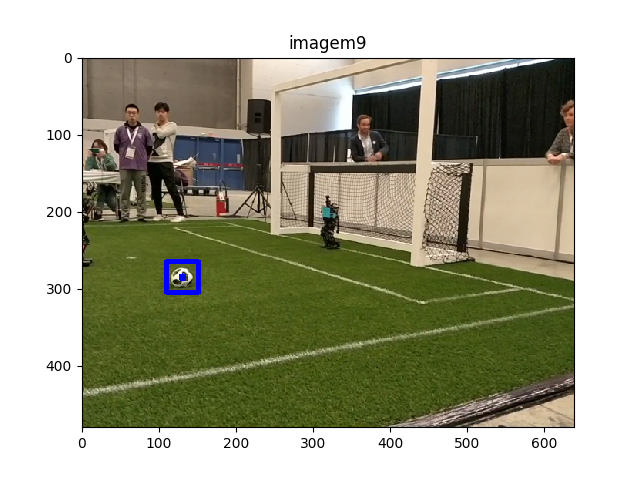
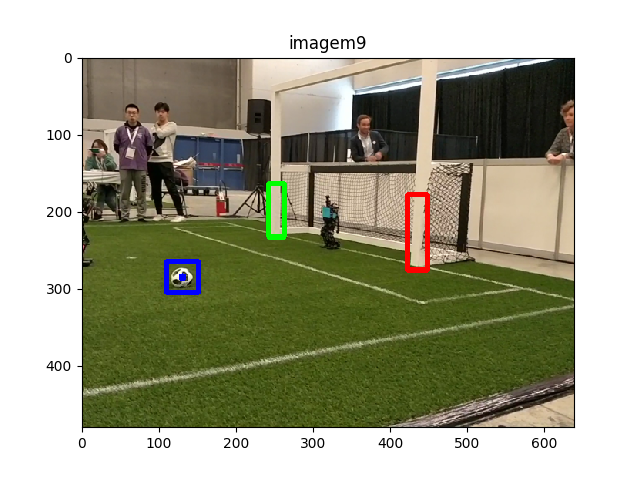
Made ball and crossbar detection work

Changed region(s): [[0.625, 0.375, 0.6875, 0.5938], [0.4062, 0.375, 0.4688, 0.5]]

diff --git a/computer_vision_with_rnc/code/yolo_detector.py b/computer_vision_with_rnc/code/yolo_detector.py
@@ -73,45 +73,36 @@ class YoloDetector:
 
         output = np.reshape(output, (15, 20, 10))  # reshaping to remove the first dimension
 
-        max_ball_prob = 0
+        def get_crossbar_params(row_idx, elm_idx, elm):
+            x_cross = (elm_idx + sigmoid(elm[6])) * coord_scale
+            y_cross = (row_idx + sigmoid(elm[7])) * coord_scale
+            w_cross = bb_scale * 2 * np.exp(elm[8])
+            h_cross = bb_scale * 5 * np.exp(elm[9])
+            return x_cross, y_cross, w_cross, h_cross
 
-        max_cross_first_prob = 0
-        max_cross_first_row_idx = 0
-        max_cross_first_col_idx = 0
-        max_cross_sec_prob = 0
-        max_cross_sec_row_idx = 0
-        max_cross_sec_col_idx = 0
+        ball_detection = (0.0, 0.0, 0.0, 0.0, 0.0)
+        post1_detection = (0.0, 0.0, 0.0, 0.0, 0.0)
+        post2_detection = (0.0, 0.0, 0.0, 0.0, 0.0)
 
-        print('-----------------')
         for row_idx, row in enumerate(output):
             for elm_idx, elm in enumerate(row):
 
                 # treat ball case:
                 ball_prob = sigmoid(elm[0])
-                if ball_prob > max_ball_prob:
+                if ball_prob > ball_detection[0]:
                     x_ball = (elm_idx + sigmoid(elm[1]) )* coord_scale
                     y_ball = (row_idx + sigmoid(elm[2]) )* coord_scale
                     w_ball = bb_scale * 5 * np.exp(elm[3])
                     h_ball = bb_scale * 5 * np.exp(elm[4])
                     ball_detection = (ball_prob, x_ball, y_ball, w_ball, h_ball)
-                    max_ball_prob = ball_prob
 
                 # treat crossbar case:
-                # ball_prob = sigmoid(elm[5])
-                # if ball_prob > max_ball_prob:
-                #     max_ball_prob = ball_prob
-                #     max_ball_row_idx = row_idx
-                #     max_ball_col_idx = elm_idx
-
-        # print(output)
-
-        # Todo: implement YOLO logic
-        # ball_detection = (0.0, 0.0, 0.0, 0.0, 0.0)  # Todo: change this line
-        post1_detection = (0.0, 0.0, 0.0, 0.0, 0.0)  # Todo: change this line
-        post2_detection = (0.0, 0.0, 0.0, 0.0, 0.0)  # Todo: change this line
-
-
-        # ball_detection = (max_ball_prob, y_ball, x_ball, coord_scale, coord_scale)
-        print(ball_detection)
+                cross_prob = sigmoid(elm[5])
+                if cross_prob > post1_detection[0]:
+                    x_cross, y_cross, w_cross, h_cross = get_crossbar_params(row_idx, elm_idx, elm)
+                    post1_detection = (cross_prob, x_cross, y_cross, w_cross, h_cross)
+                elif cross_prob > post2_detection[0]:
+                    x_cross, y_cross, w_cross, h_cross = get_crossbar_params(row_idx, elm_idx, elm)
+                    post2_detection = (cross_prob, x_cross, y_cross, w_cross, h_cross)
 
         return ball_detection, post1_detection, post2_detection

diff --git a/computer_vision_with_rnc/code/test_vision_detector.py b/computer_vision_with_rnc/code/test_vision_detector.py
@@ -8,7 +8,7 @@ import time
 os.environ["CUDA_VISIBLE_DEVICES"] = "-1"
 
 NUM_IMAGES = 10
-DETECTION_THRESHOLD = 0.05  # probability threshold used to discard object detections
+DETECTION_THRESHOLD = 0.5  # probability threshold used to discard object detections
 # Used for plotting purposes
 RECT_THICKNESS = 5
 CIRCLE_RADIUS = 5
